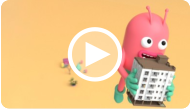
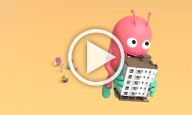
Add translations Add video covers Css fixes

diff --git a/public/assets/sass/layouts/_channel_call.scss b/public/assets/sass/layouts/_channel_call.scss
@@ -234,25 +234,23 @@ div.section.banner-header{
 				li{
 					margin-right: 15px;
 					margin-left: 15px;
+					color: $color-new-lilac;
+					cursor:pointer;
 					img{
 						vertical-align: sub;
 	    				margin-right: 3px;
-					}
-					a{
-							color: $color-new-lilac;
-						}
-					}
+					}	
+				}
 				li.selected{
 					background-color: #15ae98;
 					border-radius: 5px;
 					color: #fff !important;
 					padding: 8px 10px;
+					cursor: none;
+					height: 41px;
 					img{
 						filter: brightness(.55) saturate(3) grayscale(100%);
-					}
-					a{
-						color: $color-white;
-					}
+					}		
 				}
 			}
 		}
@@ -1696,6 +1694,9 @@ footer {
         	&.terms{
         		background-color: $background-white;
         		position: static;
+        	}
+        	&.intro{
+        		background-color: $background-white;
         	}
         }
 	}

diff --git a/Resources/templates/responsive/channel/call/partials/intro.php b/Resources/templates/responsive/channel/call/partials/intro.php
@@ -5,10 +5,12 @@
 				<img class="img-responsive" src="/assets/img/channel/call/owner.png">
 			</div>
 			<div class="col-md-6 right-side">
-				<h2 class="title">Crea tu proyecto</h2>
-				<p class="description">Lanza tu idea y proyecto al mundo mediante una plataforma de crowdfunding cívico, cooperativo, social y sostenible.</br>Crea comunidad alrededor de tu cooperativa.</p>
-				<a href="/project/create" target="_blank" class="btn btn-transparent">
-				¡Házte impulsor!
+				<h2 class="title"><?= $this->text('channel-call-intro-pitcher-tab-title') ?></h2>
+				<p class="description">
+					<?= $this->text('channel-call-intro-pitcher-tab-description') ?>
+				</p>
+				<a href="<?= $this->text('channel-call-intro-pitcher-tab-action-url') ?>" target="_blank" class="btn btn-transparent">
+					<?= $this->text('channel-call-intro-pitcher-tab-action') ?>
 				</a>
 				<img data-toggle="modal" data-target="#PitcherVideoModal" class="cover" src="/assets/img/channel/call/video_covers/pitch.png">
 			</div>
@@ -18,14 +20,14 @@
 				<img class="img-responsive" src="/assets/img/channel/call/matcher.png">
 			</div>
 			<div class="col-md-6 right-side">
-				<h2 class="title">Cofinancia proyectos</h2>
-				<p class="description">¿Eres una cooperativa, empresa responsable o fundación? 
-					<br>¿Quieres colaborar dando impulso al mundo cooperativo?
+				<h2 class="title"><?= $this->text('channel-call-intro-matcher-tab-title') ?></h2>
+				<p class="description">
+					<?= $this->text('channel-call-intro-matcher-tab-description') ?>
 				</p>
-				<a href="/project/create" target="_blank" class="btn btn-transparent">
-				¡Házte matcher!
+				<a href="<?= $this->text('channel-call-intro-matcher-tab-action-url') ?>" target="_blank" class="btn btn-transparent">
+					<?= $this->text('channel-call-intro-matcher-tab-action') ?>
 				</a>
-				<img data-toggle="modal" data-target="#MatcherVideoModal" class="cover" src="/assets/img/channel/call/video_covers/pitch.png">
+				<img data-toggle="modal" data-target="#MatcherVideoModal" class="cover" src="/assets/img/channel/call/video_covers/matcher.png">
 			</div>
 		</div>
 		<div class="row" style="display:none" id="donor">
@@ -33,13 +35,14 @@
 				<img class="img-responsive" src="/assets/img/channel/call/donor.png">
 			</div>
 			<div class="col-md-6 right-side">
-				<h2 class="title">Adelante</h2>
-				<p class="description">Con tu donación desgravable haces posible la creación y la sostenibilidad de proyectos cooperativos comprometidos con el cambio social.
+				<h2 class="title"><?= $this->text('channel-call-intro-donor-tab-title') ?></h2>
+				<p class="description">
+					<?= $this->text('channel-call-intro-donor-tab-description') ?>
 				</p>
-				<a href="/project/create" target="_blank" class="btn btn-transparent">
-				¡Dona!
+				<a href="<?= $this->text('channel-call-intro-donor-tab-action-url') ?>" target="_blank" class="btn btn-transparent">
+				<?= $this->text('channel-call-intro-donor-tab-action') ?>
 				</a>
-				<img data-toggle="modal" data-target="#DonorVideoModal" class="cover" src="/assets/img/channel/call/video_covers/pitch.png">
+				<img data-toggle="modal" data-target="#DonorVideoModal" class="cover" src="/assets/img/channel/call/video_covers/donor.png">
 			</div>
 		</div>
 		<div class="row" style="display:none" id="goteo">
@@ -47,12 +50,14 @@
 				<img class="img-responsive" src="/assets/img/channel/call/goteo.png">
 			</div>
 			<div class="col-md-6 right-side">
-				<h2 class="title">Fábrica Crowdcoop</h2>
-				<p class="description">Únete a nuestra fábrica de proyectos cooperativos por una democracia económica. Pongamos el dinero al servicio del bien común y la justicia social.</p>
-				<a href="/project/create" target="_blank" class="btn btn-transparent">
-				¡Házte impulsor!
+				<h2 class="title"><?= $this->text('channel-call-intro-factory-tab-title') ?></h2>
+				<p class="description">
+					<?= $this->text('channel-call-intro-factory-tab-description') ?>
+				</p>
+				<a href="<?= $this->text('channel-call-intro-factory-tab-action-url') ?>" target="_blank" class="btn btn-transparent">
+					<?= $this->text('channel-call-intro-factory-tab-action') ?>
 				</a>
-				<img data-toggle="modal" data-target="#GoteoVideoModal" class="cover" src="/assets/img/channel/call/video_covers/pitch.png">
+				<img data-toggle="modal" data-target="#GoteoVideoModal" class="cover" src="/assets/img/channel/call/video_covers/goteo.png">
 			</div>
 		</div>
 	</div>

diff --git a/Resources/templates/responsive/channel/call/partials/modals.php b/Resources/templates/responsive/channel/call/partials/modals.php
@@ -7,7 +7,7 @@
                 <button type="button" class="close" data-dismiss="modal" aria-label="Close"><span aria-hidden="true">&times;</span></button>
             </div>
             <div class="embed-responsive embed-responsive-16by9">
-                <iframe width="100%" height="500" src="https://www.youtube.com/embed/5bzfj2IkznQ" frameborder="0" allow="accelerometer; autoplay; clipboard-write; encrypted-media; gyroscope; picture-in-picture" allowfullscreen></iframe>
+                <iframe width="100%" height="500" src="<?= $this->text('channel-call-intro-pitcher-tab-video') ?>" frameborder="0" allow="accelerometer; autoplay; clipboard-write; encrypted-media; gyroscope; picture-in-picture" allowfullscreen></iframe>
             </div>
           </div>
         </div>
@@ -24,7 +24,7 @@
                 <button type="button" class="close" data-dismiss="modal" aria-label="Close"><span aria-hidden="true">&times;</span></button>
             </div>
             <div class="embed-responsive embed-responsive-16by9">
-                <iframe width="100%" height="500" src="https://www.youtube.com/embed/rZFvAfZLZSI" frameborder="0" allow="accelerometer; autoplay; clipboard-write; encrypted-media; gyroscope; picture-in-picture" allowfullscreen></iframe>
+                <iframe width="100%" height="500" src="<?= $this->text('channel-call-intro-matcher-tab-video') ?>" frameborder="0" allow="accelerometer; autoplay; clipboard-write; encrypted-media; gyroscope; picture-in-picture" allowfullscreen></iframe>
             </div>
           </div>
         </div>
@@ -41,7 +41,7 @@
                 <button type="button" class="close" data-dismiss="modal" aria-label="Close"><span aria-hidden="true">&times;</span></button>
             </div>
             <div class="embed-responsive embed-responsive-16by9">
-                <iframe width="100%" height="500" src="https://www.youtube.com/embed/U_AAioupuk8" frameborder="0" allow="accelerometer; autoplay; clipboard-write; encrypted-media; gyroscope; picture-in-picture" allowfullscreen></iframe>
+                <iframe width="100%" height="500" src="<?= $this->text('channel-call-intro-donor-tab-video') ?>" frameborder="0" allow="accelerometer; autoplay; clipboard-write; encrypted-media; gyroscope; picture-in-picture" allowfullscreen></iframe>
             </div>
           </div>
         </div>
@@ -58,7 +58,7 @@
                 <button type="button" class="close" data-dismiss="modal" aria-label="Close"><span aria-hidden="true">&times;</span></button>
             </div>
             <div class="embed-responsive embed-responsive-16by9">
-                <iframe width="100%" height="500" src="https://www.youtube.com/embed/Q-qHZK36HLA" frameborder="0" allow="accelerometer; autoplay; clipboard-write; encrypted-media; gyroscope; picture-in-picture" allowfullscreen></iframe>
+                <iframe width="100%" height="500" src="<?= $this->text('channel-call-intro-factory-tab-video') ?>" frameborder="0" allow="accelerometer; autoplay; clipboard-write; encrypted-media; gyroscope; picture-in-picture" allowfullscreen></iframe>
             </div>
           </div>
         </div>

diff --git a/Resources/templates/responsive/channel/call/partials/banner_header.php b/Resources/templates/responsive/channel/call/partials/banner_header.php
@@ -57,28 +57,20 @@
 				<div class="col-md-6">
 					<ul class="list-inline filters" >
 							<li class="selected" data-rol="pitcher">
-								<a href="#">
-									<img height="22px" src="/assets/img/channel/call/characters_icons/pitcher.png">
-									Pitcher
-								</a>
+								<img height="22px" src="/assets/img/channel/call/characters_icons/pitcher.png">
+								<?= $this->text('channel-call-intro-pitcher-title') ?>
 							</li>
 							<li data-rol="matcher">
-								<a href="#" >
-									<img height="22px" src="/assets/img/channel/call/characters_icons/matcher.png">
-									Matcher
-								</a>
+								<img height="22px" src="/assets/img/channel/call/characters_icons/matcher.png">
+								<?= $this->text('channel-call-intro-matcher-title') ?>
 							</li>
 							<li data-rol="donor">
-								<a href="#" >
-									<img height="22px" src="/assets/img/channel/call/characters_icons/donor.png">
-									Donante
-								</a>
+								<img height="22px" src="/assets/img/channel/call/characters_icons/donor.png">
+								<?= $this->text('channel-call-intro-donor-title') ?>
 							</li>
-							<li data-rol="goteo">
-								<a href="#">
-									<img height="18px" src="/assets/img/channel/call/characters_icons/goteo.png">
-									Goteo
-								</a>
+							<li data-rol="goteo" style="padding: 10px;">
+								<img height="18px" src="/assets/img/channel/call/characters_icons/goteo.png">
+								<?= $this->text('channel-call-intro-factory-title') ?>
 							</li>
 					</ul>
 				</div>
